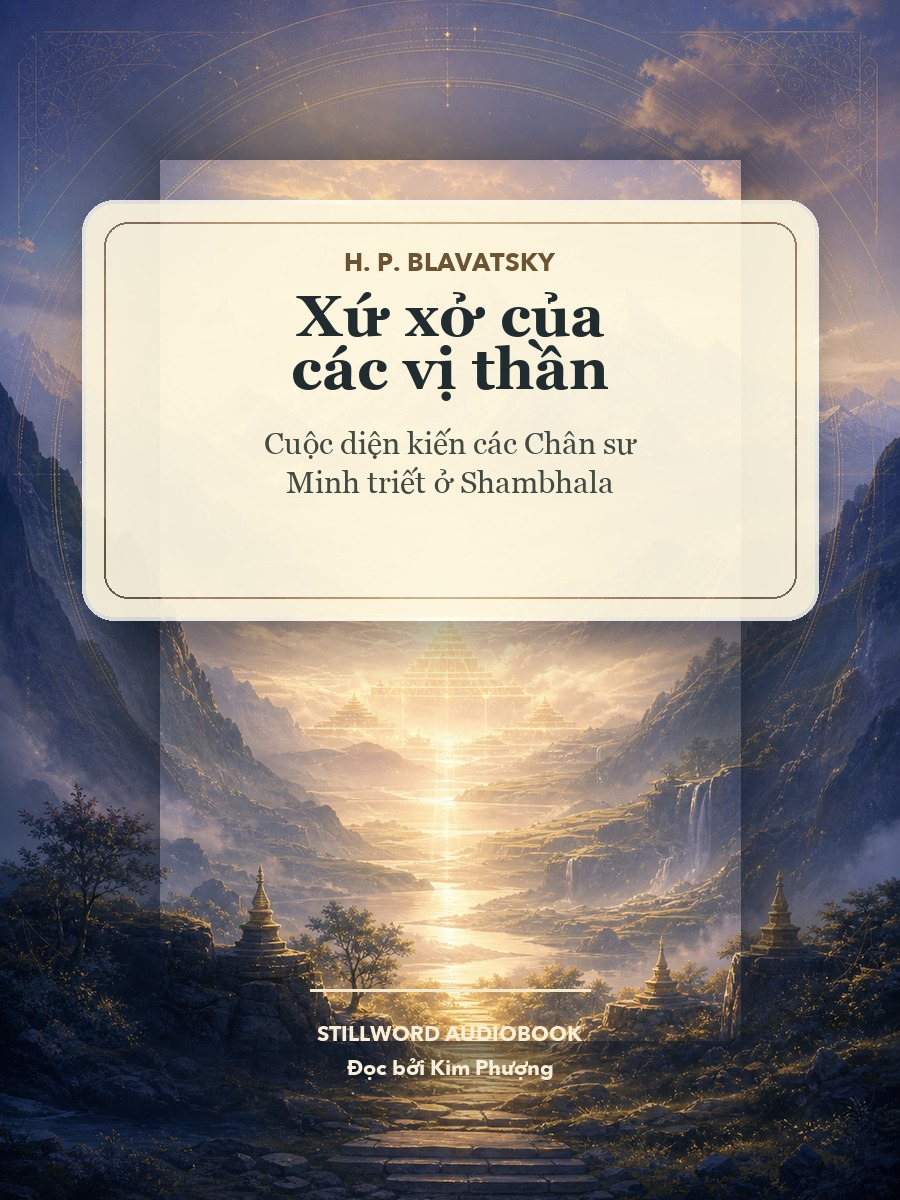
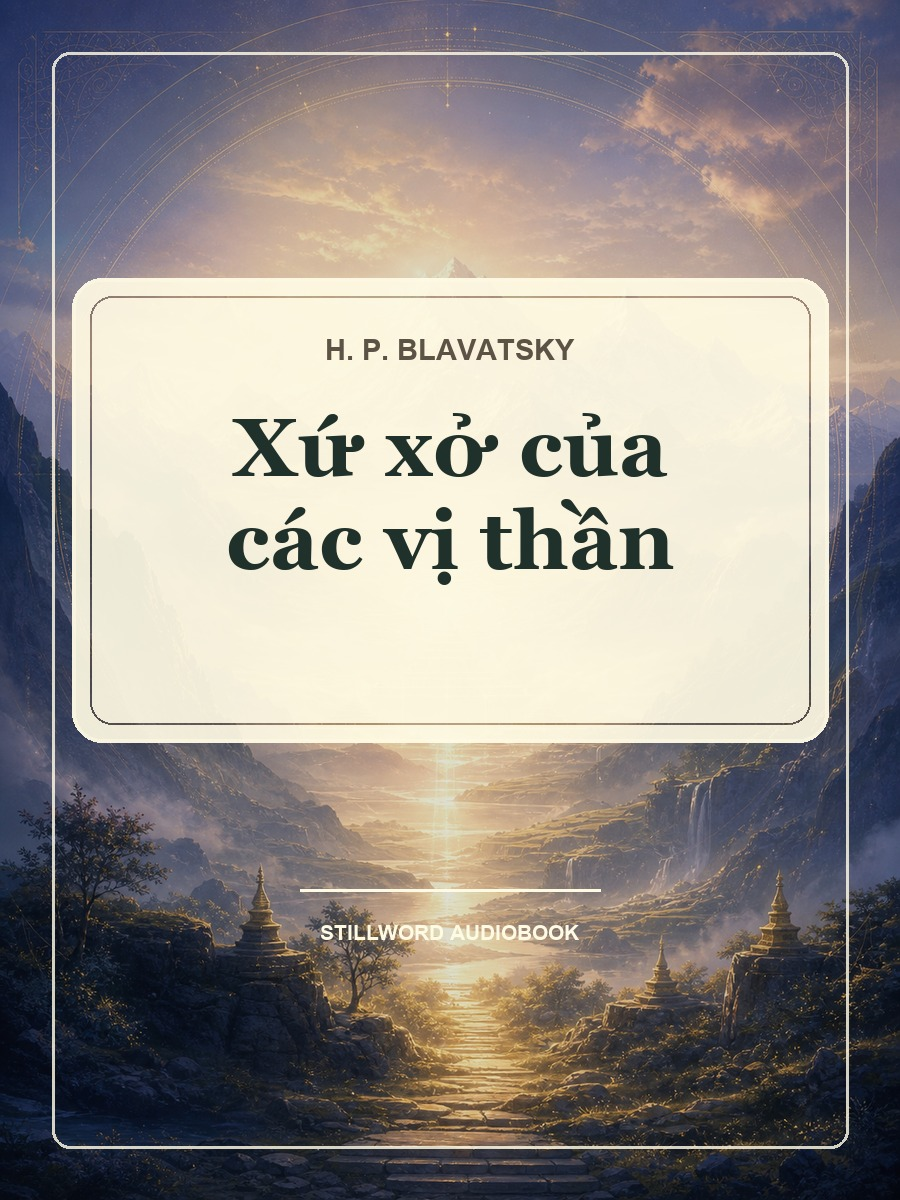
Improve audiobook cover balance

Changed region(s): [[0.0311, 0.0617, 1.0, 0.9558], [0.8089, 0.6783, 0.8711, 0.8017], [0.0622, 0.0308, 0.0933, 0.0617]]

diff --git a/styles.css b/styles.css
@@ -257,7 +257,7 @@ h2 {
 }
 
 .book-card p {
-  margin-bottom: 10px;
+  margin-bottom: 8px;
   line-height: 1.45;
 }
 
@@ -302,6 +302,10 @@ h2 {
 
 .book-more .book-meta-list {
   margin-top: 8px;
+}
+
+.book-more .book-meta-list span:first-child {
+  max-width: 100%;
 }
 
 .card-meta {
@@ -479,7 +483,7 @@ h2 {
 
 .book-detail h1 {
   margin-bottom: 8px;
-  font-size: clamp(2.2rem, 4vw, 4rem);
+  font-size: clamp(2rem, 3.4vw, 3.4rem);
 }
 
 .book-detail h2 {
@@ -731,12 +735,12 @@ body.mini-player .round-button {
   }
 
   .book-card {
-    grid-template-columns: clamp(104px, 30vw, 124px) minmax(0, 1fr);
+    grid-template-columns: clamp(118px, 36vw, 148px) minmax(0, 1fr);
     grid-template-rows: auto;
-    align-items: center;
-    gap: 13px;
+    align-items: start;
+    gap: 14px;
     border-color: rgba(222, 216, 204, 0.78);
-    padding: 10px 12px 10px 10px;
+    padding: 10px 12px 12px 10px;
     box-shadow: 0 8px 20px rgba(68, 56, 42, 0.07);
   }
 
@@ -774,12 +778,25 @@ body.mini-player .round-button {
 
   .book-card h3 {
     display: -webkit-box;
-    margin: 0 0 8px;
+    margin: 1px 0 7px;
     overflow: hidden;
-    font-size: clamp(0.98rem, 3.7vw, 1.12rem);
-    line-height: 1.16;
+    font-size: clamp(1rem, 4.15vw, 1.32rem);
+    line-height: 1.14;
     -webkit-box-orient: vertical;
     -webkit-line-clamp: 3;
+  }
+
+  .book-byline {
+    margin-top: 6px;
+    font-size: 0.78rem;
+  }
+
+  .book-more {
+    margin-top: 7px;
+  }
+
+  .book-more summary {
+    font-size: 0.78rem;
   }
 
   .book-meta-list {
@@ -792,6 +809,15 @@ body.mini-player .round-button {
     padding: 0 7px;
     font-size: 0.66rem;
     line-height: 1;
+  }
+
+  .book-more .book-meta-list span:first-child {
+    width: 100%;
+    justify-content: flex-start;
+    white-space: normal;
+    line-height: 1.25;
+    padding-top: 5px;
+    padding-bottom: 5px;
   }
 
   .card-actions {
@@ -816,7 +842,9 @@ body.mini-player .round-button {
 
   .book-detail h1 {
     margin-bottom: 6px;
-    font-size: clamp(1.65rem, 7vw, 2.35rem);
+    font-size: clamp(1.35rem, 5.2vw, 1.72rem);
+    line-height: 1.1;
+    overflow-wrap: anywhere;
   }
 
   .book-detail h2 {
@@ -825,12 +853,13 @@ body.mini-player .round-button {
   }
 
   .book-heading {
-    grid-template-columns: 58px minmax(0, 1fr);
-    gap: 12px;
+    grid-template-columns: clamp(88px, 28vw, 112px) minmax(0, 1fr);
+    gap: 14px;
+    align-items: start;
   }
 
   .book-cover-small {
-    width: 58px;
+    width: 100%;
     border-radius: 7px;
   }
 

diff --git a/app.js b/app.js
@@ -11,7 +11,7 @@ const knownCoverPaths = {
   "dayspring-of-youth": "./assets/covers/dayspring-of-youth.jpg?v=1",
   "tam-ly-hoc-cho-su-thay-oi-triet-e": "./assets/covers/tam-ly-hoc-cho-su-thay-doi-triet-de.jpg?v=1",
   "bong-hong-cai-ao": "./assets/covers/bong-hong-cai-ao.jpg?v=3",
-  "xu-xo-cua-cac-vi-than": "./assets/covers/xu-xo-cua-cac-vi-than.jpg?v=1"
+  "xu-xo-cua-cac-vi-than": "./assets/covers/xu-xo-cua-cac-vi-than.jpg?v=2"
 };
 
 const state = {
@@ -202,6 +202,7 @@ function listenCountLabel(book, count) {
 
 function compactBookMeta(book) {
   const items = [];
+  if (book.subtitle || book.description) items.push(book.subtitle || book.description);
   if (book.narrator) items.push(narratorLabel(book));
   items.push(chapterCountLabel(book));
   items.push(languageLabel(book));
@@ -390,7 +391,6 @@ function renderLibrary() {
       </button>
       <div>
         <h3>${escapeHtml(book.title)}</h3>
-        ${book.subtitle || book.description ? `<p>${escapeHtml(book.subtitle || book.description)}</p>` : ""}
         ${book.author ? `<p class="book-byline">${escapeHtml(authorLabel(book))}</p>` : ""}
         <details class="book-more">
           <summary>${escapeHtml(copy(book, "more"))}</summary>
@@ -450,9 +450,7 @@ function renderBook(book) {
     <div class="book-heading">
       <img class="book-cover-small" src="${escapeHtml(book.cover)}" alt="">
       <div>
-        ${book.author ? `<p class="eyebrow">${escapeHtml(book.author)}</p>` : ""}
         <h1>${escapeHtml(book.title)}</h1>
-        ${book.subtitle ? `<h2>${escapeHtml(book.subtitle)}</h2>` : ""}
         ${book.author ? `<p class="book-byline detail-byline">${escapeHtml(authorLabel(book))}</p>` : ""}
         <details class="book-more detail-more">
           <summary>${escapeHtml(copy(book, "more"))}</summary>
@@ -461,7 +459,7 @@ function renderBook(book) {
           </div>
           <button class="ghost-button compact-action" type="button" data-action="share-book">${escapeHtml(copy(book, "share"))}</button>
         </details>
-        ${shouldShowDescription ? `<p class="book-description">${escapeHtml(book.description)}</p>` : ""}
+        ${shouldShowDescription ? `<p class="book-description" hidden>${escapeHtml(book.description)}</p>` : ""}
       </div>
     </div>
     <div class="chapter-list">

diff --git a/index.html b/index.html
@@ -22,7 +22,7 @@
     <link rel="icon" href="./assets/icons/favicon.svg" type="image/svg+xml">
     <link rel="apple-touch-icon" href="./assets/icons/apple-touch-icon.png">
     <link rel="manifest" href="./manifest.webmanifest">
-    <link rel="stylesheet" href="./styles.css?v=compact-meta-25">
+    <link rel="stylesheet" href="./styles.css?v=cover-balance-26">
   </head>
   <body>
     <div class="app-shell">
@@ -92,6 +92,6 @@
       <audio id="audioPlayer" preload="metadata"></audio>
     </aside>
 
-    <script src="./app.js?v=compact-meta-25" defer></script>
+    <script src="./app.js?v=cover-balance-26" defer></script>
   </body>
 </html>

diff --git a/books/xu-xo-cua-cac-vi-than/index.html b/books/xu-xo-cua-cac-vi-than/index.html
@@ -23,7 +23,7 @@
   </head>
   <body>
     <main class="share-landing">
-      <img src="../../assets/covers/xu-xo-cua-cac-vi-than.jpg?v=1" alt="">
+      <img src="../../assets/covers/xu-xo-cua-cac-vi-than.jpg?v=2" alt="">
       <h1>Xứ xở của các vị thần</h1>
       <p>H. P. Blavatsky</p>
       <a class="primary-button" href="https://cristalngo.github.io/audio-book/#book/xu-xo-cua-cac-vi-than">Listen on Stillword</a>
